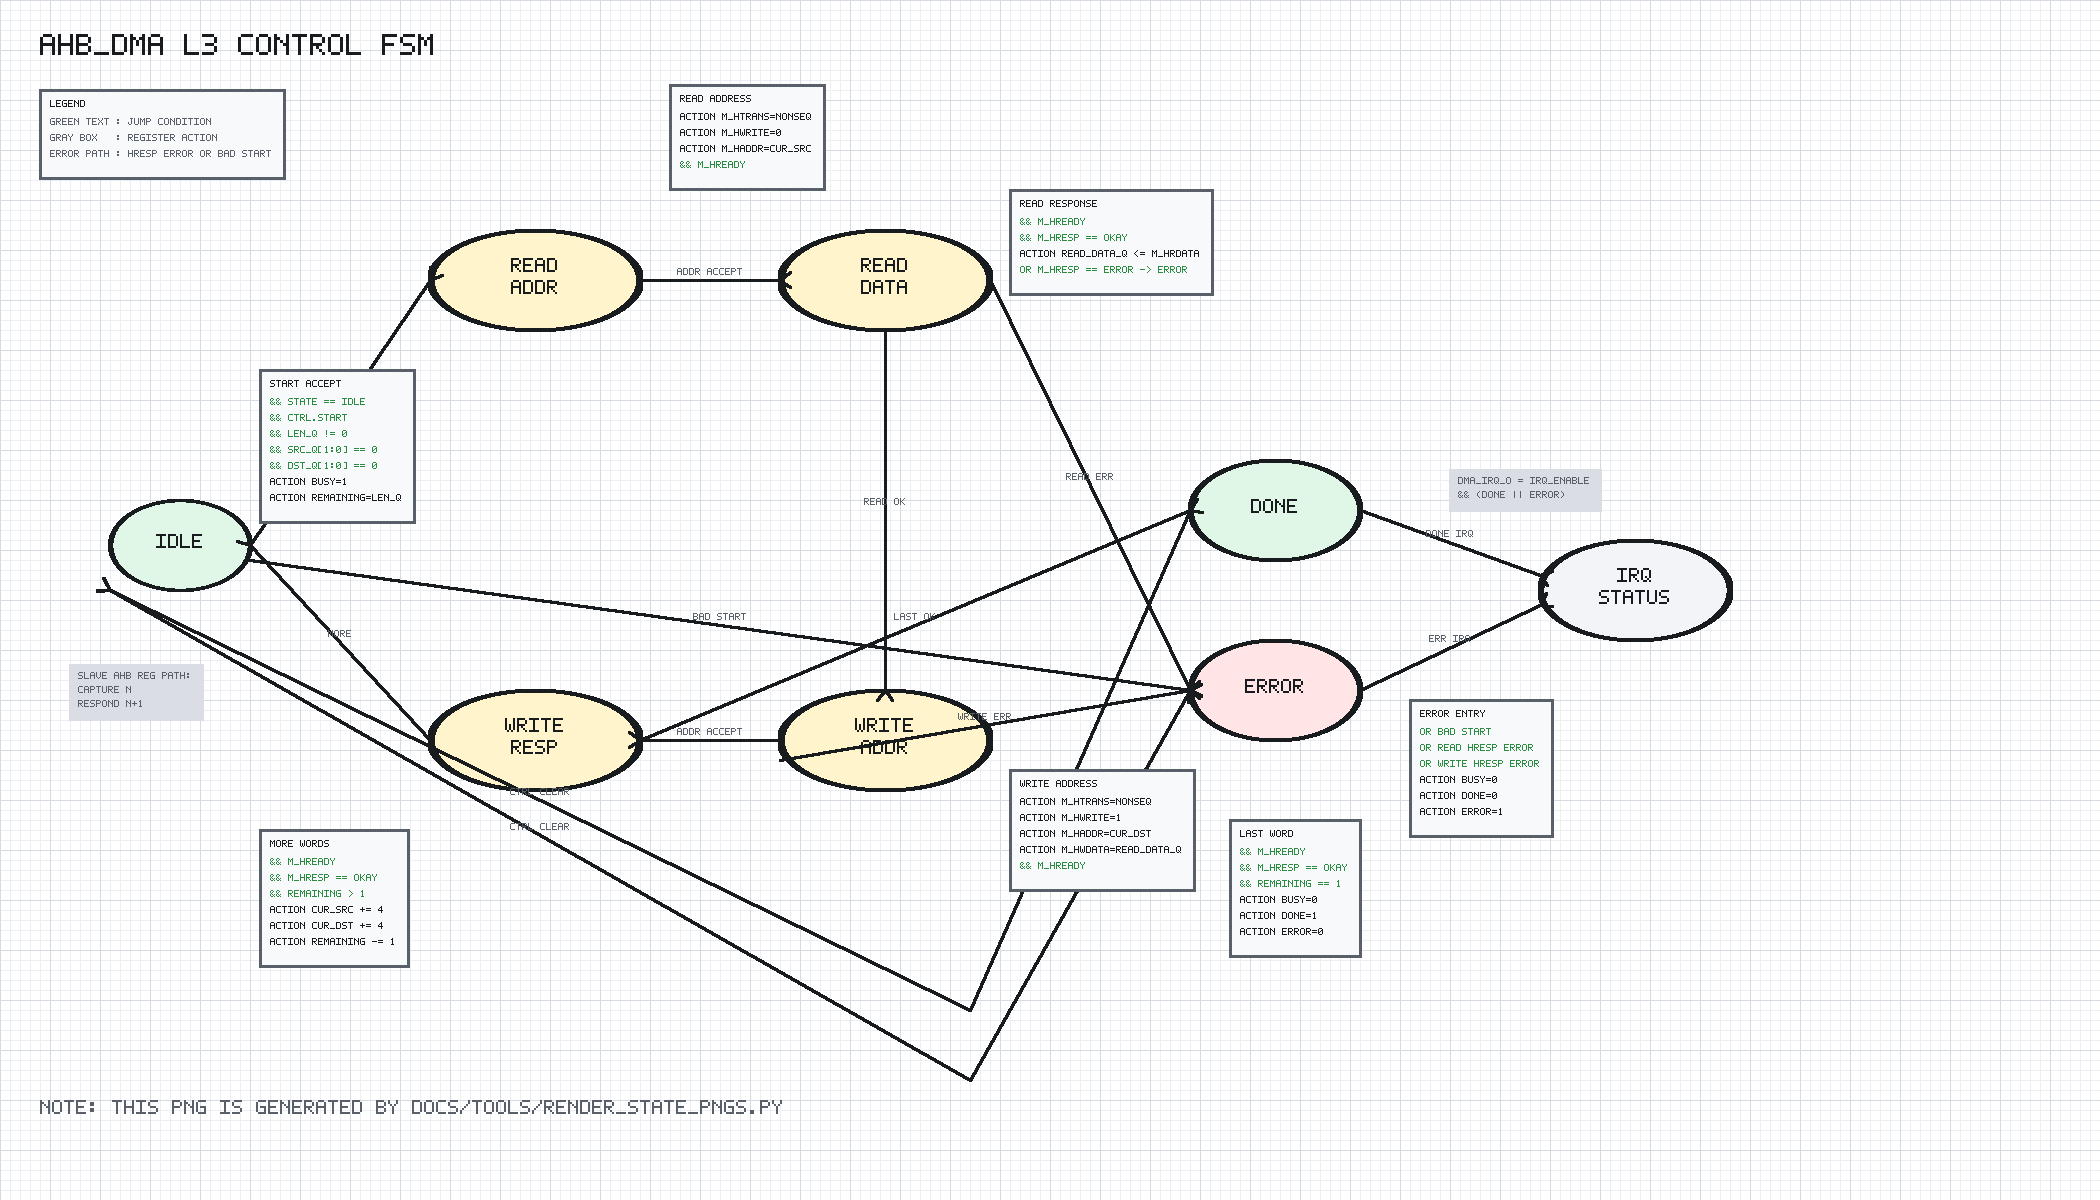
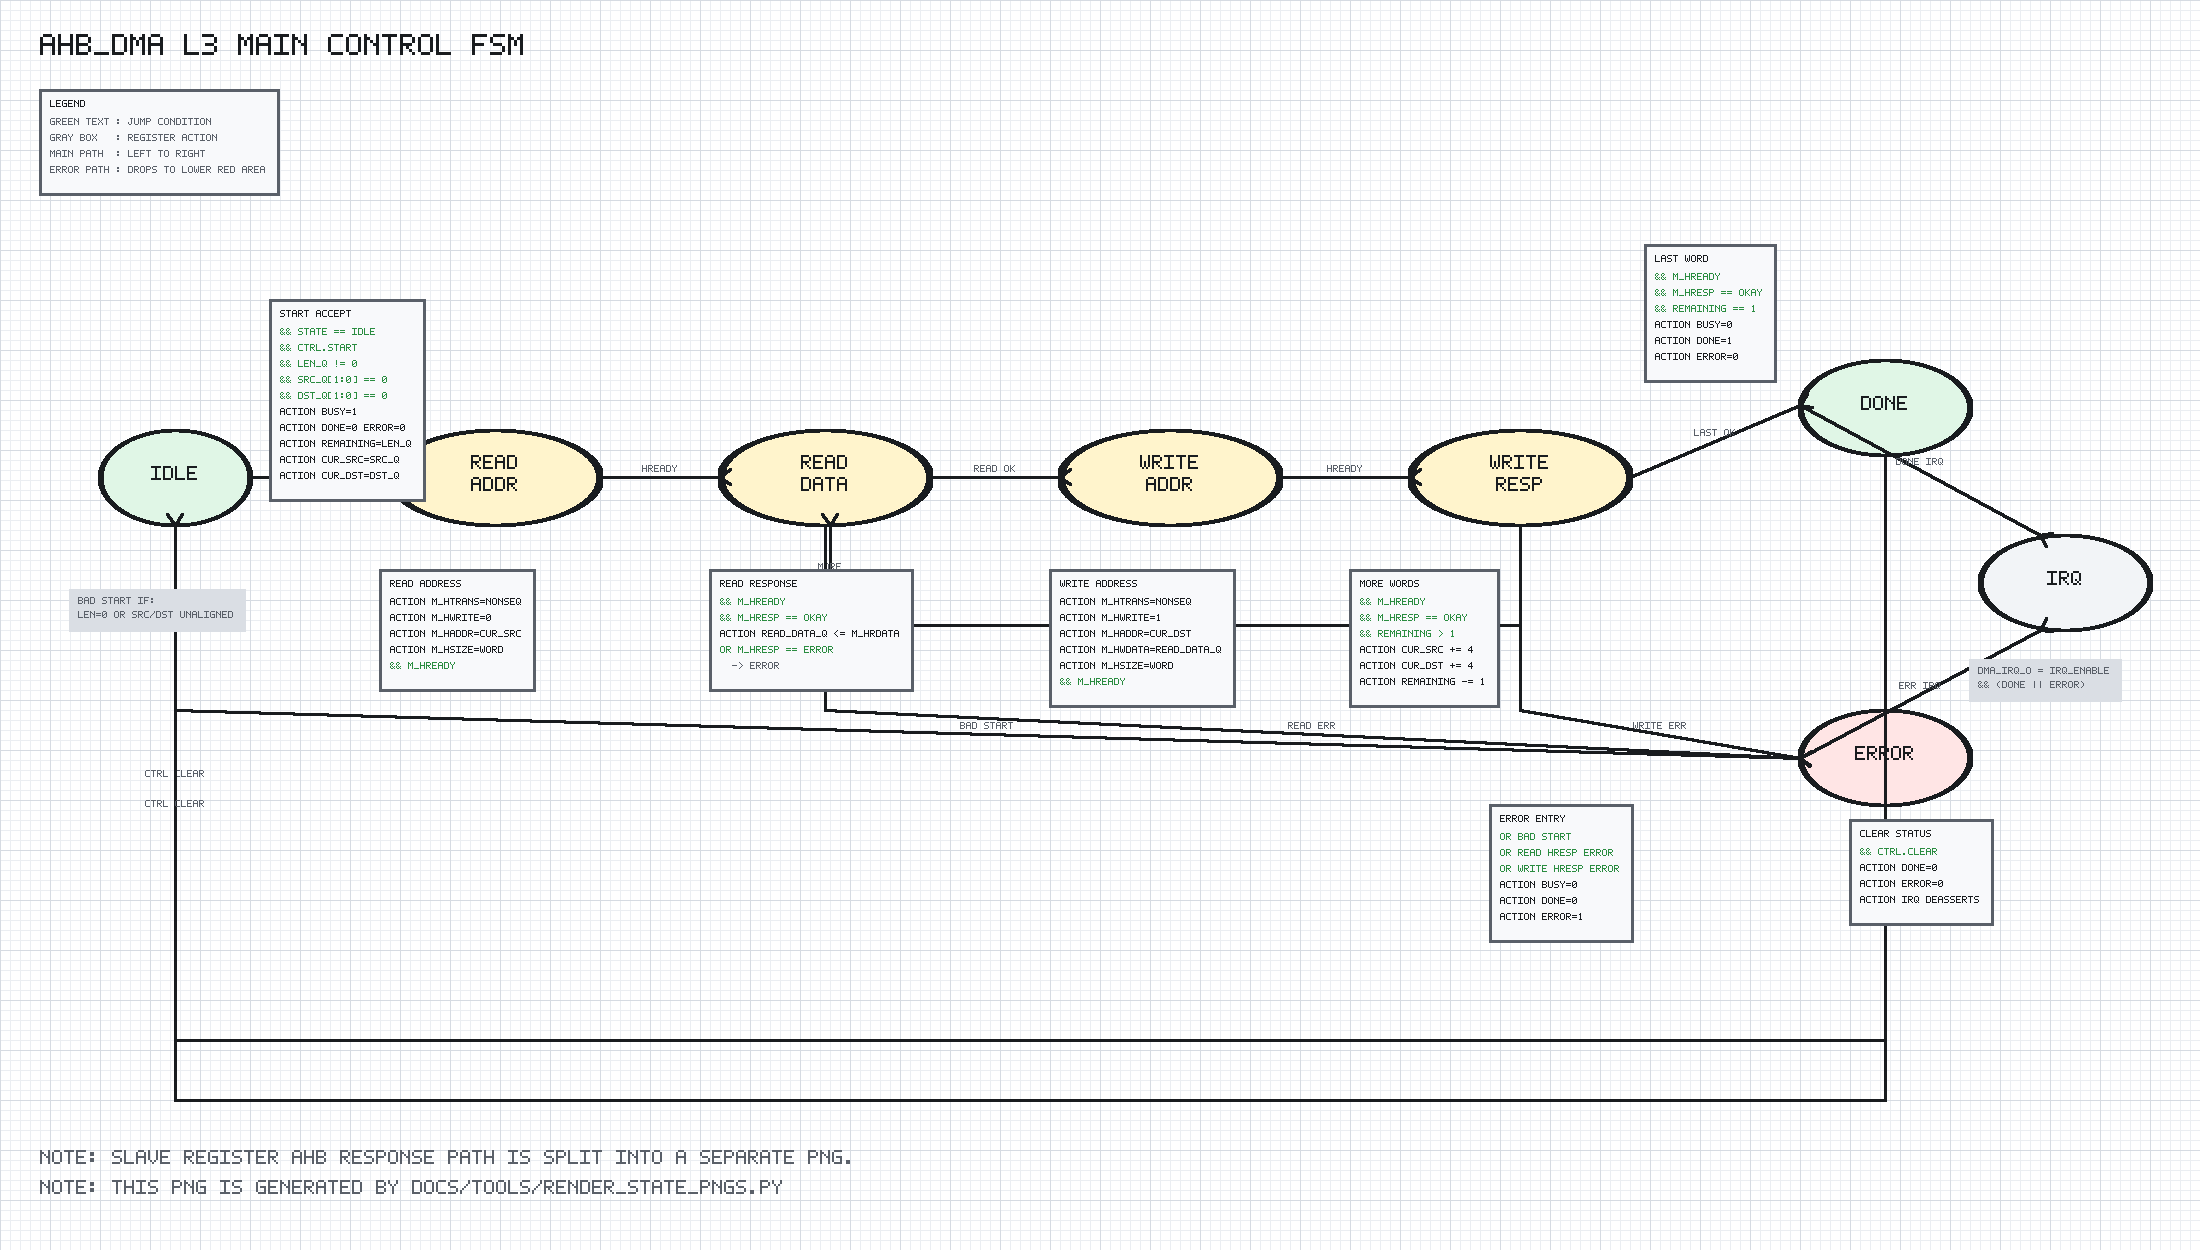
Refine DMA L3 state diagrams

Changed region(s): [[0.0, 0.0308, 0.9905, 0.9558], [0.0, 0.0, 0.2476, 0.185], [0.4024, 0.9558, 0.4333, 0.9867]]

diff --git a/docs/tools/render_state_pngs.py b/docs/tools/render_state_pngs.py
@@ -407,46 +407,48 @@ def render_core_pipe_l3() -> None:
 
 
 def render_ahb_dma_l3() -> None:
-    canvas = Canvas(2100, 1200)
+    canvas = Canvas(2200, 1250)
     canvas.grid()
-    canvas.text(40, 34, "AHB_DMA L3 CONTROL FSM", scale=3, color=BLACK)
+    canvas.text(40, 34, "AHB_DMA L3 MAIN CONTROL FSM", scale=3, color=BLACK)
     canvas.box_text(
         40,
         90,
         [
             "GREEN TEXT : JUMP CONDITION",
             "GRAY BOX   : REGISTER ACTION",
-            "ERROR PATH : HRESP ERROR OR BAD START",
+            "MAIN PATH  : LEFT TO RIGHT",
+            "ERROR PATH : DROPS TO LOWER RED AREA",
         ],
         "LEGEND",
     )
 
-    canvas.state(110, 500, 140, 90, ("IDLE",), GREEN)
-    canvas.state(430, 230, 210, 100, ("READ", "ADDR"), YELLOW)
-    canvas.state(780, 230, 210, 100, ("READ", "DATA"), YELLOW)
-    canvas.state(780, 690, 210, 100, ("WRITE", "ADDR"), YELLOW)
-    canvas.state(430, 690, 210, 100, ("WRITE", "RESP"), YELLOW)
-    canvas.state(1190, 460, 170, 100, ("DONE",), GREEN)
-    canvas.state(1190, 640, 170, 100, ("ERROR",), PINK)
-    canvas.state(1540, 540, 190, 100, ("IRQ", "STATUS"), GRAY)
+    canvas.state(100, 430, 150, 95, ("IDLE",), GREEN)
+    canvas.state(390, 430, 210, 95, ("READ", "ADDR"), YELLOW)
+    canvas.state(720, 430, 210, 95, ("READ", "DATA"), YELLOW)
+    canvas.state(1060, 430, 220, 95, ("WRITE", "ADDR"), YELLOW)
+    canvas.state(1410, 430, 220, 95, ("WRITE", "RESP"), YELLOW)
+    canvas.state(1800, 360, 170, 95, ("DONE",), GREEN)
+    canvas.state(1800, 710, 170, 95, ("ERROR",), PINK)
+    canvas.state(1980, 535, 170, 95, ("IRQ",), GRAY)
 
-    canvas.path_arrow([(250, 545), (430, 280)], "START OK")
-    canvas.path_arrow([(640, 280), (780, 280)], "ADDR ACCEPT")
-    canvas.path_arrow([(885, 330), (885, 690)], "READ OK")
-    canvas.path_arrow([(780, 740), (640, 740)], "ADDR ACCEPT")
-    canvas.path_arrow([(430, 740), (250, 545)], "MORE")
-    canvas.path_arrow([(640, 740), (1190, 510)], "LAST OK")
-    canvas.path_arrow([(990, 280), (1190, 690)], "READ ERR")
-    canvas.path_arrow([(780, 760), (1190, 690)], "WRITE ERR")
-    canvas.path_arrow([(250, 560), (1190, 690)], "BAD START")
-    canvas.path_arrow([(1360, 510), (1540, 575)], "DONE IRQ")
-    canvas.path_arrow([(1360, 690), (1540, 605)], "ERR IRQ")
-    canvas.path_arrow([(1190, 510), (970, 1010), (110, 590)], "CTRL CLEAR")
-    canvas.path_arrow([(1190, 690), (970, 1080), (110, 590)], "CTRL CLEAR")
+    canvas.path_arrow([(250, 477), (390, 477)], "START OK")
+    canvas.path_arrow([(600, 477), (720, 477)], "HREADY")
+    canvas.path_arrow([(930, 477), (1060, 477)], "READ OK")
+    canvas.path_arrow([(1280, 477), (1410, 477)], "HREADY")
+    canvas.path_arrow([(1630, 477), (1800, 405)], "LAST OK")
+    canvas.path_arrow([(1520, 525), (1520, 625), (830, 625), (830, 525)], "MORE")
+    canvas.path_arrow([(1800, 405), (2040, 535)], "DONE IRQ")
+    canvas.path_arrow([(1800, 758), (2040, 630)], "ERR IRQ")
+
+    canvas.path_arrow([(175, 525), (175, 710), (1800, 758)], "BAD START")
+    canvas.path_arrow([(825, 525), (825, 710), (1800, 758)], "READ ERR")
+    canvas.path_arrow([(1520, 525), (1520, 710), (1800, 758)], "WRITE ERR")
+    canvas.path_arrow([(1885, 455), (1885, 1040), (175, 1040), (175, 525)], "CTRL CLEAR")
+    canvas.path_arrow([(1885, 805), (1885, 1100), (175, 1100), (175, 525)], "CTRL CLEAR")
 
     canvas.box_text(
-        260,
-        370,
+        270,
+        300,
         [
             "&& STATE == IDLE",
             "&& CTRL.START",
@@ -454,47 +456,53 @@ def render_ahb_dma_l3() -> None:
             "&& SRC_Q[1:0] == 0",
             "&& DST_Q[1:0] == 0",
             "ACTION BUSY=1",
+            "ACTION DONE=0 ERROR=0",
             "ACTION REMAINING=LEN_Q",
+            "ACTION CUR_SRC=SRC_Q",
+            "ACTION CUR_DST=DST_Q",
         ],
         "START ACCEPT",
     )
     canvas.box_text(
-        670,
-        85,
+        380,
+        570,
         [
             "ACTION M_HTRANS=NONSEQ",
             "ACTION M_HWRITE=0",
             "ACTION M_HADDR=CUR_SRC",
+            "ACTION M_HSIZE=WORD",
             "&& M_HREADY",
         ],
         "READ ADDRESS",
     )
     canvas.box_text(
-        1010,
-        190,
+        710,
+        570,
         [
             "&& M_HREADY",
             "&& M_HRESP == OKAY",
             "ACTION READ_DATA_Q <= M_HRDATA",
-            "OR M_HRESP == ERROR -> ERROR",
+            "OR M_HRESP == ERROR",
+            "  -> ERROR",
         ],
         "READ RESPONSE",
     )
     canvas.box_text(
-        1010,
-        770,
+        1050,
+        570,
         [
             "ACTION M_HTRANS=NONSEQ",
             "ACTION M_HWRITE=1",
             "ACTION M_HADDR=CUR_DST",
             "ACTION M_HWDATA=READ_DATA_Q",
+            "ACTION M_HSIZE=WORD",
             "&& M_HREADY",
         ],
         "WRITE ADDRESS",
     )
     canvas.box_text(
-        260,
-        830,
+        1350,
+        570,
         [
             "&& M_HREADY",
             "&& M_HRESP == OKAY",
@@ -506,8 +514,8 @@ def render_ahb_dma_l3() -> None:
         "MORE WORDS",
     )
     canvas.box_text(
-        1230,
-        820,
+        1645,
+        245,
         [
             "&& M_HREADY",
             "&& M_HRESP == OKAY",
@@ -519,8 +527,8 @@ def render_ahb_dma_l3() -> None:
         "LAST WORD",
     )
     canvas.box_text(
-        1410,
-        700,
+        1490,
+        805,
         [
             "OR BAD START",
             "OR READ HRESP ERROR",
@@ -531,10 +539,100 @@ def render_ahb_dma_l3() -> None:
         ],
         "ERROR ENTRY",
     )
-    canvas.action_label(1450, 470, ["DMA_IRQ_O = IRQ_ENABLE", "&& (DONE || ERROR)"])
-    canvas.action_label(70, 665, ["SLAVE AHB REG PATH:", "CAPTURE N", "RESPOND N+1"])
-    canvas.text(40, 1100, "NOTE: THIS PNG IS GENERATED BY DOCS/TOOLS/RENDER_STATE_PNGS.PY", scale=2, color=DARK_GRAY)
+    canvas.box_text(
+        1850,
+        820,
+        [
+            "&& CTRL.CLEAR",
+            "ACTION DONE=0",
+            "ACTION ERROR=0",
+            "ACTION IRQ DEASSERTS",
+        ],
+        "CLEAR STATUS",
+    )
+    canvas.action_label(1970, 660, ["DMA_IRQ_O = IRQ_ENABLE", "&& (DONE || ERROR)"])
+    canvas.action_label(70, 590, ["BAD START IF:", "LEN=0 OR SRC/DST UNALIGNED"])
+    canvas.text(40, 1150, "NOTE: SLAVE REGISTER AHB RESPONSE PATH IS SPLIT INTO A SEPARATE PNG.", scale=2, color=DARK_GRAY)
+    canvas.text(40, 1180, "NOTE: THIS PNG IS GENERATED BY DOCS/TOOLS/RENDER_STATE_PNGS.PY", scale=2, color=DARK_GRAY)
     canvas.write_png(Path("dma/docs/images/ahb_dma_fsm.png"))
+
+    reg = Canvas(1700, 900)
+    reg.grid()
+    reg.text(40, 34, "AHB_DMA L3 SLAVE REGISTER PATH", scale=3, color=BLACK)
+    reg.box_text(
+        40,
+        90,
+        [
+            "ONE CYCLE AHB RESPONSE MODEL",
+            "CAPTURE ADDRESS PHASE AT CYCLE N",
+            "RETURN RESPONSE AT CYCLE N+1",
+        ],
+        "LEGEND",
+    )
+    reg.state(110, 360, 180, 90, ("IDLE", "NO SEL"), GRAY)
+    reg.state(390, 360, 240, 90, ("CAPTURE", "ADDR CTRL"), BLUE)
+    reg.state(760, 190, 220, 90, ("READ", "MUX"), GREEN)
+    reg.state(760, 360, 220, 90, ("ERROR", "HRESP"), PINK)
+    reg.state(760, 530, 220, 90, ("WRITE", "REGS"), GREEN)
+    reg.state(1160, 360, 220, 90, ("RESPOND", "N+1"), YELLOW)
+
+    reg.path_arrow([(290, 405), (390, 405)], "S_HSEL && HTRANS[1]")
+    reg.path_arrow([(630, 405), (760, 235)], "READ OK")
+    reg.path_arrow([(630, 405), (760, 405)], "BAD XFER")
+    reg.path_arrow([(630, 405), (760, 575)], "WRITE OK")
+    reg.path_arrow([(980, 235), (1160, 385)], "HRDATA")
+    reg.path_arrow([(980, 405), (1160, 405)], "ERROR")
+    reg.path_arrow([(980, 575), (1160, 425)], "OKAY")
+    reg.path_arrow([(1270, 450), (1270, 735), (200, 735), (200, 450)], "NEXT CYCLE")
+    reg.box_text(
+        350,
+        500,
+        [
+            "CAPTURED:",
+            "S_HADDR",
+            "S_HWRITE",
+            "S_HSIZE",
+            "REG OFFSET",
+            "ERROR CLASS",
+        ],
+        "CYCLE N",
+    )
+    reg.box_text(
+        720,
+        70,
+        [
+            "READ DMA_SRC/DST/LEN",
+            "READ CTRL/STATUS",
+            "READ RETURNS REGISTER IMAGE",
+            "ACTION S_HRESP=OKAY",
+        ],
+        "READ RESPONSE",
+    )
+    reg.box_text(
+        720,
+        650,
+        [
+            "WRITE SRC/DST/LEN IF IDLE",
+            "CTRL.START REQUESTS FSM START",
+            "CTRL.CLEAR CLEARS DONE/ERROR",
+            "ACTION S_HRESP=OKAY",
+        ],
+        "WRITE RESPONSE",
+    )
+    reg.box_text(
+        1040,
+        500,
+        [
+            "OR OUT OF RANGE",
+            "OR MISALIGNED",
+            "OR HSIZE != WORD",
+            "OR UNKNOWN REG",
+            "ACTION S_HRESP=ERROR",
+        ],
+        "ERROR RESPONSE",
+    )
+    reg.text(40, 830, "NOTE: THIS PNG IS GENERATED BY DOCS/TOOLS/RENDER_STATE_PNGS.PY", scale=2, color=DARK_GRAY)
+    reg.write_png(Path("dma/docs/images/ahb_dma_reg_path.png"))
 
 
 def main() -> None:

diff --git a/dma/docs/ahb_dma_design_spec.md b/dma/docs/ahb_dma_design_spec.md
@@ -179,6 +179,10 @@ DMA_WRITE_RESP:
 
 The slave register path is a separate one-cycle AHB response state machine:
 
+![ahb_dma slave register path](images/ahb_dma_reg_path.png)
+
+PNG generated by `docs/tools/render_state_pngs.py`.
+
 ```text
 cycle N capture selected register transfer
 cycle N+1 return read/write response or ERROR